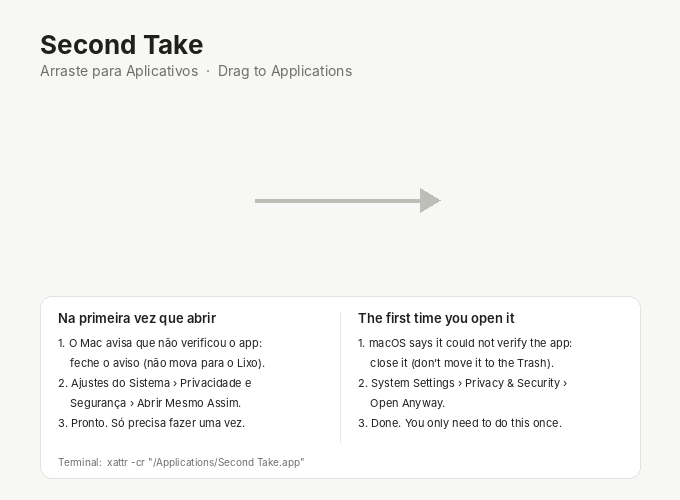
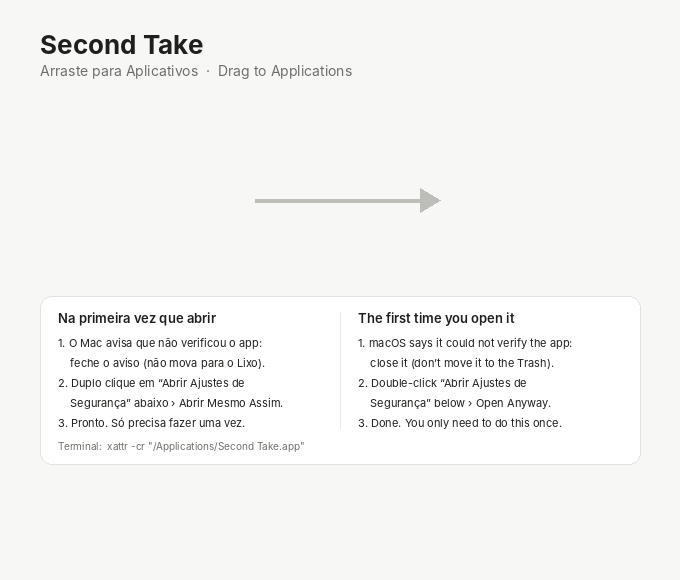
0.9.2: atalho para os Ajustes de Segurança no instalador

diff --git a/scripts/make_assets.py b/scripts/make_assets.py
@@ -91,7 +91,7 @@ def icon():
 
 def dmg_background(scale):
     """Fundo bilíngue da janela do instalador: ícones no alto, passos em PT e EN embaixo."""
-    W, H = 680 * scale, 500 * scale
+    W, H = 680 * scale, 580 * scale
     img = Image.new('RGB', (W, H), BG)
     d = ImageDraw.Draw(img)
     s = scale
@@ -104,22 +104,22 @@ def dmg_background(scale):
     d.polygon([(420 * s, y - 12 * s), (440 * s, y), (420 * s, y + 12 * s)], fill=(190, 190, 185))
     # caixa de instruções, duas colunas
     bx, by, bw = 40 * s, 296 * s, W - 80 * s
-    d.rounded_rectangle([bx, by, bx + bw, H - 22 * s], radius=12 * s, fill=(255, 255, 255),
+    d.rounded_rectangle([bx, by, bx + bw, by + 168 * s], radius=12 * s, fill=(255, 255, 255),
                         outline=(226, 226, 222), width=max(1, s))
-    d.line([(bx + bw // 2, by + 16 * s), (bx + bw // 2, H - 58 * s)], fill=(232, 232, 228), width=max(1, s))
+    d.line([(bx + bw // 2, by + 16 * s), (bx + bw // 2, by + 132 * s)], fill=(232, 232, 228), width=max(1, s))
     cols = [
         ('Na primeira vez que abrir', [
             '1. O Mac avisa que não verificou o app:',
             '    feche o aviso (não mova para o Lixo).',
-            '2. Ajustes do Sistema › Privacidade e',
-            '    Segurança › Abrir Mesmo Assim.',
+            '2. Duplo clique em “Abrir Ajustes de',
+            '    Segurança” abaixo › Abrir Mesmo Assim.',
             '3. Pronto. Só precisa fazer uma vez.',
         ]),
         ('The first time you open it', [
             '1. macOS says it could not verify the app:',
             '    close it (don’t move it to the Trash).',
-            '2. System Settings › Privacy & Security ›',
-            '    Open Anyway.',
+            '2. Double-click “Abrir Ajustes de',
+            '    Segurança” below › Open Anyway.',
             '3. Done. You only need to do this once.',
         ]),
     ]
@@ -128,10 +128,25 @@ def dmg_background(scale):
         d.text((x, by + 14 * s), title, font=font(13 * s, 'SemiBold'), fill=INK)
         for i, ln in enumerate(lines):
             d.text((x, by + (40 + i * 20) * s), ln, font=font(11 * s, 'Regular'), fill=INK)
-    d.text((bx + 18 * s, H - 44 * s), 'Terminal:  xattr -cr "/Applications/Second Take.app"',
+    d.text((bx + 18 * s, by + 144 * s), 'Terminal:  xattr -cr "/Applications/Second Take.app"',
            font=font(10 * s, 'Regular'), fill=MUTED)
     name = 'dmg_background.png' if scale == 1 else 'dmg_background@2x.png'
     img.save(os.path.join(OUT, name), dpi=(72 * scale, 72 * scale))
+
+
+def social_preview():
+    """Imagem de prévia de links (GitHub "Social preview" e página de download), 1280×640."""
+    W, H = 1280, 640
+    img = Image.new('RGB', (W, H), (24, 26, 30))
+    d = ImageDraw.Draw(img)
+    icon = Image.open(os.path.join(OUT, 'icon_1024.png')).resize((360, 360), Image.LANCZOS)
+    img.paste(icon, (90, 140), icon)
+    d.text((500, 175), 'Second Take', font=font(92, 'Bold'), fill=(245, 245, 242))
+    d.text((504, 290), 'Recuperação de clipes de câmera corrompidos', font=font(31, 'Regular'), fill=(200, 200, 195))
+    d.text((504, 338), 'Recovery for corrupted camera clips', font=font(30, 'Regular'), fill=(140, 140, 135))
+    d.text((504, 420), 'Sony XAVC S  ·  macOS e Windows  ·  grátis e open source', font=font(26, 'Regular'),
+           fill=(76, 141, 246))
+    img.save(os.path.join(OUT, 'social_preview.png'))
 
 
 if __name__ == '__main__':
@@ -139,4 +154,5 @@ if __name__ == '__main__':
     icon()
     dmg_background(1)
     dmg_background(2)
+    social_preview()
     print('assets gerados em', os.path.abspath(OUT))

diff --git a/src/secondtake/__init__.py b/src/secondtake/__init__.py
@@ -3,4 +3,4 @@
 Copyright (C) 2026 Super8 Produtora
 Licenciado sob a GNU General Public License v3 ou posterior.
 """
-__version__ = '0.9.1'
+__version__ = '0.9.2'

diff --git a/CHANGELOG.md b/CHANGELOG.md
@@ -1,5 +1,12 @@
 # Changelog
 
+## 0.9.2 — 2026-11-16
+- Instalador do Mac: atalho **Abrir Ajustes de Segurança**, que abre direto Privacidade e Segurança para clicar em "Abrir Mesmo Assim".
+- README com imagem de capa.
+
+## 0.9.1 — 2026-11-16
+- Clipes de teste nas releases e imagem de prévia para links.
+
 ## 0.9.0 — 2026-11-16
 - **Arrastar e soltar**: solte clipes ou uma pasta em qualquer lugar da janela para analisar. A área da lista se destaca ao arrastar. Mac e Windows.
 - **Detalhes do clipe**: painel lateral com câmera, número de série, data, timecode, resolução, codec (perfil, nível, 4:2:2/4:2:0, 8/10-bit), formato XAVC, quadros/s (e de captura, em S&Q), duração, bitrate do vídeo, perfil de cor (S-Log3/S-Gamut3.Cine) e áudio. Também no relatório CSV. Lidos do índice do arquivo e do XML da Sony; funciona até em clipes danificados.
